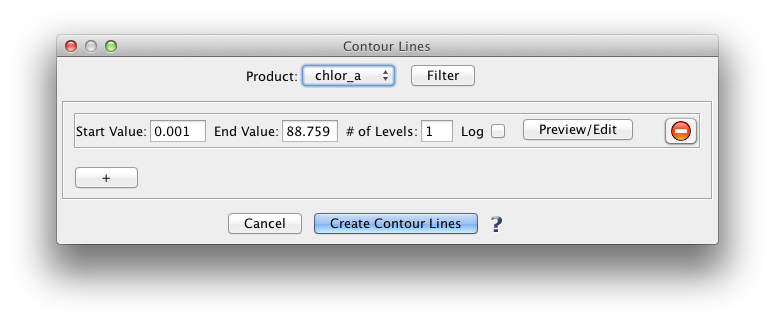
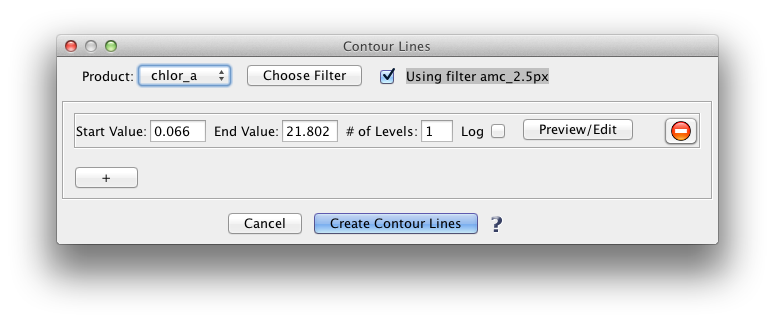
Updated contour help, including images and text.

Changed region(s): [[0.0929, 0.1858, 0.7123, 0.2786], [0.3716, 0.3715, 0.4335, 0.4334], [0.2168, 0.3715, 0.2477, 0.4334]]

diff --git a/seadas-help/src/main/resources/doc/help/seadas-contour-operator/ContourLines.html b/seadas-help/src/main/resources/doc/help/seadas-contour-operator/ContourLines.html
@@ -34,8 +34,10 @@
         <td style="border-width:0">
             To bring up the <b>"Contour Lines"</b> window click this tool button
             in the <b>"Layers"</b> tool bar or select the
-            corresponding menu item in <b>"Tools -> Contour" or right click on a product/band image and select "Contour"</b>.
-            <p class="inote"><b>NOTE:</b> this tool can only be accessed if the image of a band or product is displayed. </p>
+            corresponding menu item in <b>"Tools -> Contour" or right click on a product/band image and select
+            "Contour"</b>.
+            <p class="inote"><b>NOTE:</b> this tool can only be accessed if the image of a band or product is displayed.
+            </p>
         </td>
     </tr>
 </table>
@@ -43,23 +45,54 @@
 
 <h3>Details</h3>
 <h4>Introduction</h4>
-This tool creates contour lines within a selected product.
+This tool creates contour lines for a selected product. This tool is built upon the contour operator developed by Michael Bedward and available at
+<code>https://github.com/mbedward/jaitools/tree/master/operator/contour</code>, which in turn uses an
+interpolation algorithm of Paul Bourke: originally published
+ in Byte magazine (1987) as the CONREC contouring subroutine written in
+ FORTRAN. The Java implementation of contour operator was adapted from Paul Bourke's C code for the
+ algorithm, which is available at:
+ <a href="http://local.wasp.uwa.edu.au/~pbourke/papers/conrec/">
+ http://local.wasp.uwa.edu.au/~pbourke/papers/conrec/</a>
 
 <h4>User Interface</h4>
+
 <p>
 
-    The user interface of <b>"Contour Lines"</b> tools is divided into 3 sections.
+    The user interface of <b>"Contour Lines"</b> tool is divided into 3 sections.
 
-    <img src="images/contour_dialog.png"  alt="Contour Dialog"></a>
+<ul>
 
+    <li> The <b><i>top section</i></b> enables the
+        selection of a product or band as the source of the contour operator.
+        By default, the band is filtered using a 5x5 filter. A user can select a desired filter using the "Choose
+        Filter" button, or un-check the checkbox next to
+        the "Choose Filter" button to use the unfiltered, original band to generate contour lines. When an unfiltered
+        band is used, the contour operation takes
+        considerably longer amount of time to create the contour interval lines. Thus, it is highly recommended to use
+        filtered bands.
+    </li>
+    <li>
+        The <b><i>middle section</i></b> allows the setting of the parameters
+        <a href="ContourLines.html#START_VALUE">Start Value</a>,
+        <a href="ContourLines.html#END_VALUE">End Value</a>,
+        <a href="ContourLines.html#NUMBER_OF_LEVELS">Number of Levels</a>, and
+        <a href="ContourLines.html#LOG">Log</a>
+        for the contour operator.
+        Based on the start value, the end value, the number of levels, and the log/linear factor, the "Contour" tool
+        auto-generates contour intervals.
+        Users can view the generated levels using the "Preview/Edit" button and modify the contour interval name,
+        contour value, contour line color, and contour line
+        style. Contour line style is defined using two variables: line dash length and line space length. Line dash
+        length cannot be zero or a negative number. When "line space length"
+        is zero, it indicates the line is solid.
+    </li>
+    <li>
+        The <b><i>last section</i></b> contains buttons that initiates the execution or cancellation of the contour operation.
+    </li>
+</ul>
+<br>
 
-    The top section enables the
-    selection of a product or band as the source of the contour operator. The middle section allow the setting of the parameters
-    <a href="ContourLines.html#START_VALUE">Start Value</a>,
-    <a href="ContourLines.html#END_VALUE">End Value</a>,
-    <a href="ContourLines.html#NUMBER_OF_LEVELS">Number of Levels</a>, and
-    <a href="ContourLines.html#LOG">Log</a>
-for the contour operator.
+<img src="images/contour_dialog.png" alt="Contour Dialog"></a>
 
 </p>
 
@@ -67,14 +100,14 @@ for the contour operator.
 <h6>Start Value</h6>
 
 <p>
-   Sets the start value for contour levels.
+    Sets the start value for contour levels.
 </p>
 
 <a name="END_VALUE"></a>
 <h6>End Value</h6>
 
 <p>
-    Sets the start value for contour levels.
+    Sets the end value for contour levels.
 </p>
 
 <a name="NUMBER_OF_LEVELS"></a>
@@ -88,19 +121,21 @@ for the contour operator.
 <h6>Log</h6>
 
 <p>
-    log or linear contour interval.
+    The contour interval values between the start and end values are auto-generated using either a linear or log distribution factor.
+    However, in "Preview/Edit" window, users can enter any values for contour intervals.
 </p>
 
 
 <a name="Customize"></a>
+
 <h6>Preview/Edit</h6>
 
 <p>
     This button helps to customize the automatically generated contour intervals.
 </p>
 
+<img src="images/contour_preview_edit.png" alt="Contour Dialog"></a>
 
-The last section contains buttons that initiates execution or cancellation.
 
 </body>
 </html>
